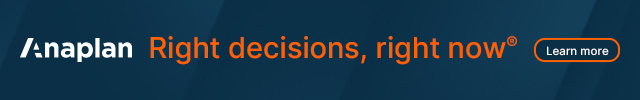
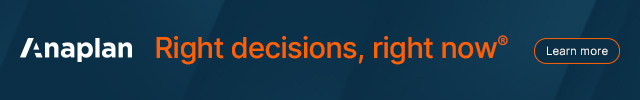
dfdfg

Changed region(s): [[0.2188, 0.36, 0.9688, 0.66], [0.8125, 0.54, 0.8438, 0.6], [0.4375, 0.36, 0.5, 0.39]]

diff --git a/batch_2/ANAAI0079B_Brand_Banner_3_970x250/styles.css b/batch_2/ANAAI0079B_Brand_Banner_3_970x250/styles.css
@@ -6,7 +6,13 @@
     font-style: normal;
     font-display: swap;
 }
-
+@font-face {
+    font-family: 'inter-regular';
+    src: url('fonts/subset-Inter18pt-Regular.woff2') format('woff2');
+    font-weight: 500;
+    font-style: normal;
+    font-display: swap;
+}
 /* sup, sub {
   vertical-align: baseline;
   position: relative;
@@ -93,9 +99,10 @@ html, body {
 .copy1 {
   width: 600px;
   top: 27px;
-  left: 48px;
-  font-size: 54.5px;
+  left: 47px;
+  font-size: 52px;
   line-height: 62px;
+  letter-spacing: 1.2px;
 }
 
 .copy2 {
@@ -151,21 +158,21 @@ html, body {
 }
 #text-4{
   width: 600px;
-  top: 48px;
-  left: 45px;
+  top: 50px;
+  left: 44px;
   font-size: 62px;
-  line-height: 72px;
-  letter-spacing: 1.7px;
+  line-height: 69px;
+  letter-spacing: 0.4px;
 }
 #text-4 sup{
   position: relative;
   font-size: 100%;
   line-height: 0px;
-  font-size: 30px;
+  font-size: 28px;
   font-weight: bold;
   display: inline-block;
-  top: -2px;
-  left: 2px;
+  top: -5px;
+  left: 1px;
 }
 #frame-1,
 #frame-2,
@@ -217,32 +224,33 @@ html, body {
   transform-origin: center;
   border-radius: 100px;
   top: 135px;
-  left: 744px;
+  left: 745px;
   background: none;
-  border: 3px #ff6100 solid;
+  border: 1.5px #ff6100 solid;
   color: #ffffff;
-  font-size: 22.6px;
+  font-size: 21.7px;
   line-height: 18px;
   letter-spacing: 0.02rem;
   width: 177px;
-  height: 43px;
+  height: 45px;
   display: flex;
   justify-content: center;
   align-items: center;
+  font-family: 'inter-regular';
 }
 
 #cta-2 {
   background: #0a2f46;
   border: none;
   width: 180px;
-  height: 46px;
-  top: 136px;
+  height: 48px;
+  top: 135px;
   left: 745px;
 }
 
 #cta-text {
   position: relative;
-  /* top: 1px; */
+  top: -1px;
 }
 
 #chevron {

diff --git a/batch_2/ANAAI0079B_Brand_Banner_3_970x250/index.html b/batch_2/ANAAI0079B_Brand_Banner_3_970x250/index.html
@@ -92,7 +92,7 @@
 
           
         </div>
-        <!-- <img src="images/2025_Anaplan_Brand_Finance_Banners_970x250_Frame 4.jpg" style="opacity: .5; z-index: 111;" class="full-width" alt=""> -->
+        <!-- <img src="images/2025_Anaplan_Brand_Finance_Banners_970x250_Frame 4@2x.jpg" style="opacity: .5; z-index: 111;" class="full-width" alt=""> -->
 
         <div id="bgExit"></div>
 
